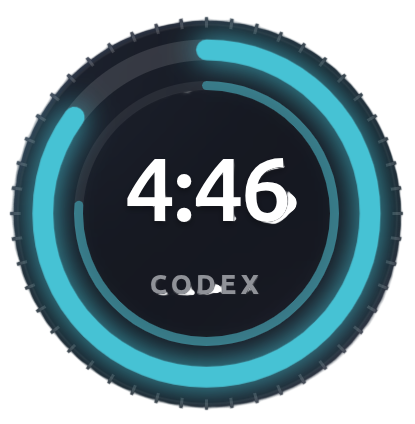
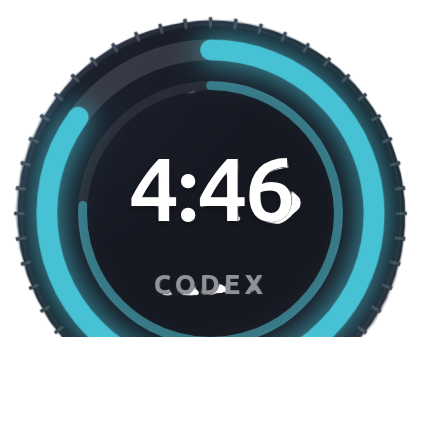
fix: make Linux bundle inputs packageable

diff --git a/src-tauri/tests/window_contract.rs b/src-tauri/tests/window_contract.rs
@@ -96,3 +96,10 @@ fn linux_runtime_sets_rendering_env_and_warns_on_wayland() {
     assert!(main_rs.contains("XDG_SESSION_TYPE"));
     assert!(main_rs.contains("Wayland is not a v1 target"));
 }
+
+#[test]
+fn cargo_default_run_targets_gui_binary_for_packaging() {
+    let cargo_toml = include_str!("../Cargo.toml");
+
+    assert!(cargo_toml.contains("default-run = \"token-dashboard\""));
+}

diff --git a/roadmap.md b/roadmap.md
@@ -4,10 +4,10 @@
 - Current milestone: M4 — Packaging and Release
 - Current task: M4 packaging/release foundation
 - Last completed task: Added GitHub Actions CI/release workflow drafts, enabled Tauri bundling metadata, and added README/troubleshooting/release notes
-- Last command run: `cargo tauri --version`
-- Last test result: Passed — `npm test`, `npm run build`, and `cargo test --manifest-path src-tauri/Cargo.toml`; local package build blocked because `cargo tauri` is not installed
-- Next recommended command: Install/verify Tauri CLI, build Ubuntu `.deb`/AppImage locally, then iterate on release workflow from the first CI run
-- Blocking issue: macOS Keychain Security framework first path remains unverified on Ubuntu and should be handled before final M4 release. Local Tauri CLI is not installed, so package artifact generation has not yet been verified locally.
+- Last command run: `npm run build`
+- Last test result: Passed — `npm test`, `npm run build`, `cargo fmt --manifest-path src-tauri/Cargo.toml --check`, and `cargo test --manifest-path src-tauri/Cargo.toml`
+- Next recommended command: Re-run `cargo tauri build --bundles deb,appimage` on the Ubuntu packaging PC from the latest `origin/main`
+- Blocking issue: macOS Keychain Security framework first path remains unverified on Ubuntu and should be handled before final M4 release. Ubuntu AppImage packaging failed once because the thumbnail icon was not square and Tauri selected `local_smoke`; both were fixed and need re-verification on the packaging PC.
 - Git status note: `.codex/` remains local untracked tooling config and should not be committed. The screenshot reference file is local input and is not required for runtime.
 - Updated at: 2026-06-15 10:25 UTC
 - Updated at: 2026-06-16 00:00 UTC
@@ -27,6 +27,7 @@
 - Updated at: 2026-06-19 01:45 UTC
 - Updated at: 2026-06-19 02:15 UTC
 - Updated at: 2026-06-20 00:45 UTC
+- Updated at: 2026-06-20 09:40 UTC
 
 ## Source Documents Read
 - [x] SPEC.md
@@ -82,6 +83,7 @@
 | 2026-06-19 | Add explicit app quit path in Settings | Frameless always-on-top widgets are hidden from the taskbar, so packaged users need a discoverable shutdown path that does not rely on terminal process management | `SPEC.md`, `src-tauri/src/main.rs`, `frontend/src/settings.js`, `frontend/src/settings.css`, `frontend/tests/settings.test.mjs`, `src-tauri/tests/window_contract.rs`, `roadmap.md` |
 | 2026-06-19 | Use `assets/Thumbnail.png` as the app thumbnail/icon source | M4 packaging needs a single specified image for macOS Dock/app switcher and Linux taskbar/window-list surfaces; Tauri window builders and bundle config now point at the same asset | `SPEC.md`, `assets/Thumbnail.png`, `src-tauri/src/main.rs`, `src-tauri/tauri.conf.json`, `src-tauri/Cargo.toml`, `src-tauri/tests/window_contract.rs`, `roadmap.md` |
 | 2026-06-20 | Start M4 with CI/release docs before artifact tuning | Packaging needs a repeatable CI baseline and user-facing install/troubleshooting guidance before platform artifact issues can be validated cleanly | `.github/workflows/ci.yml`, `.github/workflows/release.yml`, `README.md`, `docs/troubleshooting.md`, `RELEASE_NOTES.md`, `src-tauri/tauri.conf.json`, `roadmap.md` |
+| 2026-06-20 | Make the M4 Linux bundle inputs packageable | AppImage requires a square icon and Tauri must package the GUI binary, not the local smoke helper; `assets/Thumbnail.png` is now square and Cargo default-run points at `token-dashboard` | `assets/Thumbnail.png`, `src-tauri/Cargo.toml`, `src-tauri/tests/window_contract.rs`, `roadmap.md` |
 
 ## Milestone Checklist
 
@@ -371,6 +373,14 @@
 - Commands run: `npm test`, `npm run build`, `cargo fmt --manifest-path src-tauri/Cargo.toml`, `cargo test --manifest-path src-tauri/Cargo.toml`, `cargo tauri --version`
 - Result: Added CI-safe test workflow, tag-triggered draft release workflow, enabled Tauri bundling metadata, documented install/privacy/platform/troubleshooting/release notes, and added a Linux Wayland non-target warning. Local package build is still blocked because `cargo tauri` is not installed in this environment.
 - Next step: Install/verify Tauri CLI, build Ubuntu `.deb` and AppImage locally, then handle macOS Keychain Security framework-first implementation or mark it as a release blocker with macOS validation.
+
+### 2026-06-20 09:40 UTC
+- Agent: main
+- Task: Fix Ubuntu packaging blocker found on external packaging PC
+- Files changed: `assets/Thumbnail.png`, `src-tauri/Cargo.toml`, `src-tauri/tests/window_contract.rs`, `roadmap.md`
+- Commands run: `npm test`, `npm run build`, `cargo fmt --manifest-path src-tauri/Cargo.toml --check`, `cargo test --manifest-path src-tauri/Cargo.toml`
+- Result: External Ubuntu packaging reached `.deb` generation but AppImage failed because `assets/Thumbnail.png` was `415x424`, not square. Tauri also selected the `local_smoke` helper as the packaged application. The thumbnail asset is now `424x424`, and `default-run = "token-dashboard"` pins Cargo/Tauri to the GUI binary.
+- Next step: Pull latest `origin/main` on the Ubuntu packaging PC and re-run `cargo tauri build --bundles deb,appimage`.
 
 ### 2026-06-11 07:14 UTC
 - Agent: main
